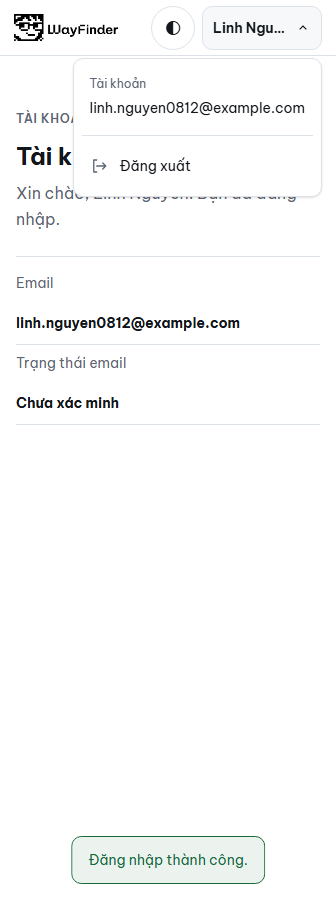
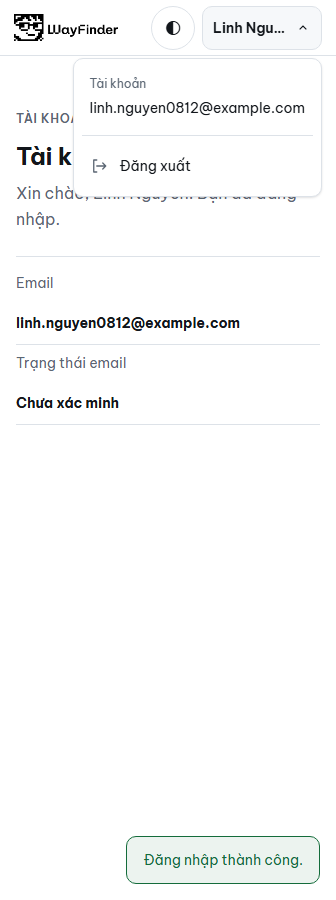
fix(web): keep compact auth notices aligned right

Changed region(s): [[0.2679, 0.9333, 0.8929, 0.9956], [0.9226, 0.9333, 0.9524, 0.9956], [0.2083, 0.9333, 0.2381, 0.9956]]

diff --git a/src/web/frontend/src/styles.css b/src/web/frontend/src/styles.css
@@ -358,7 +358,7 @@ h1 em, h2 em { font-style: normal; color: var(--color-primary); }
 .auth-field input[aria-invalid='true']:focus-visible { outline-color: var(--color-danger); }
 .password-control.is-invalid { border-color: var(--color-danger); }
 .password-control.is-invalid:focus-within { outline-color: var(--color-danger); }
-.auth-notice { position: fixed; z-index: 60; top: 76px; left: 50%; transform: translateX(-50%); width: max-content; max-width: calc(100% - 32px); pointer-events: none; }
+.auth-notice { position: fixed; z-index: 60; top: 76px; right: 24px; width: max-content; max-width: calc(100% - 32px); pointer-events: none; }
 .auth-notice-message { display: block; padding: 12px 16px; border: 1px solid var(--color-success); border-radius: var(--radius-md); color: var(--color-success); background: color-mix(in srgb, var(--color-success) 8%, var(--color-surface)); font-size: var(--text-small); line-height: var(--line-small); text-align: center; overflow-wrap: anywhere; }
 @keyframes auth-message-in { from { opacity: 0; transform: translateY(-4px); } to { opacity: 1; transform: translateY(0); } }
 @keyframes auth-message-out { to { opacity: 0; } }
@@ -378,5 +378,5 @@ h1 em, h2 em { font-style: normal; color: var(--color-primary); }
 }
 
 @media (max-width: 767px) {
-  .auth-notice { top: auto; bottom: max(16px, env(safe-area-inset-bottom)); }
+  .auth-notice { top: auto; right: 16px; bottom: max(16px, env(safe-area-inset-bottom)); }
 }

diff --git a/report/w02-menu-thong-bao-2026-10-20.md b/report/w02-menu-thong-bao-2026-10-20.md
@@ -5,13 +5,13 @@ Theo phản hồi giao diện của chủ dự án.
 ## Thay đổi
 
 - Menu co theo nội dung, giới hạn theo màn hình; email một dòng, email quá dài dùng dấu ba chấm và title giữ nguyên địa chỉ. Tách thông tin tài khoản và nút đăng xuất bằng đường phân cách; vùng bấm tối thiểu 44 px. Dùng token và kiểu chữ WayFinder hiện có, hỗ trợ sáng/tối.
-- Thông báo đăng nhập/đăng xuất căn giữa theo chiều ngang, rộng vừa chữ cộng 16 px đệm mỗi bên và viền. Desktop ở phía trên, mobile ở phía dưới; vẫn tự ẩn sau 5 giây.
+- Theo lời làm rõ của chủ dự án: chữ căn giữa trong khung; khung thông báo giữ bên phải và rộng vừa chữ cộng 16 px đệm mỗi bên và viền. Desktop ở góc trên phải cách 24 px, mobile ở góc dưới phải cách 16 px; vẫn tự ẩn sau 5 giây.
 - Chỉ chuyển trang sau API đăng xuất thành công. Cập nhật phiên và điều hướng trong cùng View Transition, khoảng 200 ms. Nút có trạng thái đang xử lý, chặn bấm lặp; lỗi mạng giữ tài khoản và cho thử lại. Trình duyệt thiếu API hoặc bật giảm chuyển động dùng điều hướng thường.
 
 ## Bằng chứng
 
 - Trước sửa: 2 test hồi quy thất bại trên mã cũ; trình duyệt tái hiện khung thông báo 304 px có khoảng thừa 144,47 px so với chữ.
 - Sau sửa: **41/41 React test đạt**, build production đạt. [XML](w02-account-menu/frontend-tests.xml).
-- [Bộ kiểm menu](../scripts/w02_account_menu_check.cjs): **9 trường hợp đạt**, 336/390/1280 px, sáng/tối, email dài 254 ký tự và reduced-motion. Thông báo lệch tâm 0 px; phần rộng hơn chữ đúng 34 px (đệm hai bên và viền). Email bình thường cao đúng một dòng 22 px; nút đăng xuất 44 px; không tràn trang; axe không vi phạm trong 6 cấu hình menu; không lỗi ứng dụng. CSRF vẫn được gửi khi đăng xuất. [JSON và ảnh](w02-account-menu/browser-audit.json).
+- [Bộ kiểm menu](../scripts/w02_account_menu_check.cjs): **9 trường hợp đạt**, 336/390/1280 px, sáng/tối, email dài 254 ký tự và reduced-motion. Chữ lệch tâm khung 0 px, khung cách mép phải đúng 24/16 px; phần rộng hơn chữ đúng 34 px (đệm hai bên và viền). Email bình thường cao đúng một dòng 22 px; nút đăng xuất 44 px; không tràn trang; axe không vi phạm trong 6 cấu hình menu; không lỗi ứng dụng. CSRF vẫn được gửi khi đăng xuất. [JSON và ảnh](w02-account-menu/browser-audit.json).
 - Bộ hồi quy phản hồi form: **6 trường hợp đạt**, gồm chuyển hai chiều, xoá lỗi cũ, inline lỗi đỏ, thông báo tự ẩn và giảm chuyển động. [Script](../scripts/w02_auth_feedback_check.cjs).
 - Account API trong phép kiểm trình duyệt được mô phỏng; không tạo tài khoản thật, gửi mail hay gọi mô hình. Thay đổi chỉ thuộc frontend W-02.
